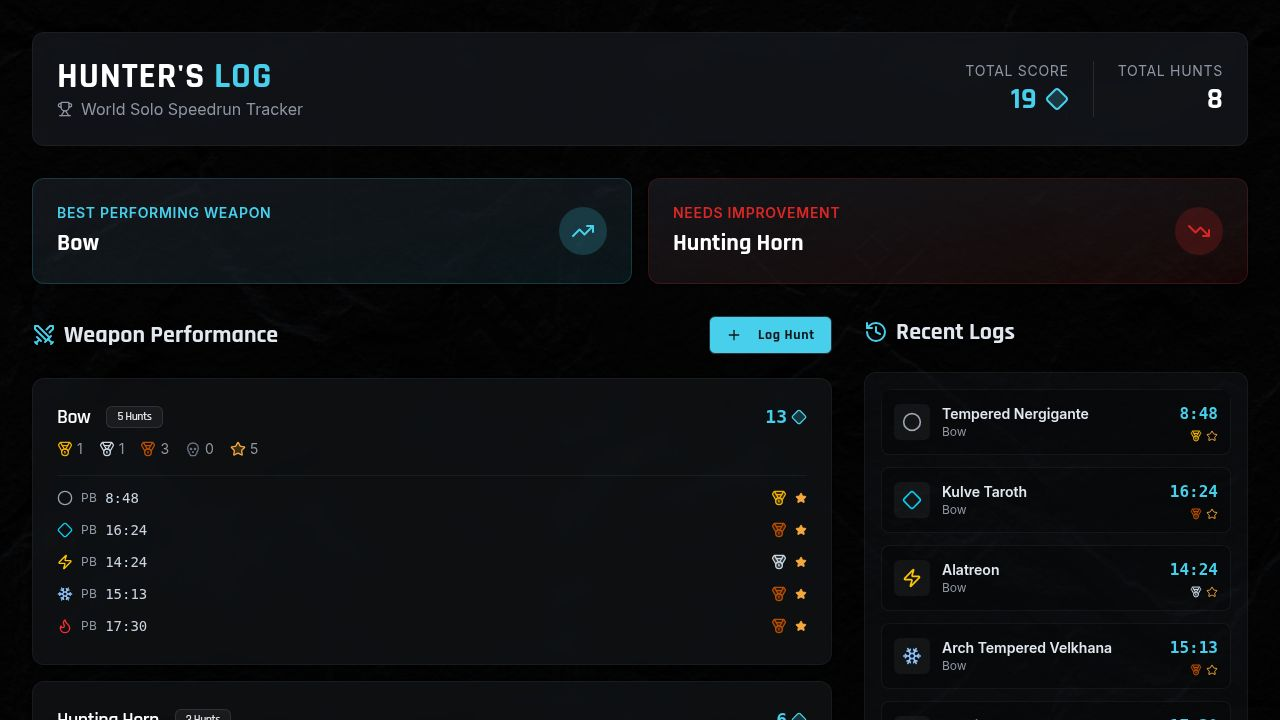
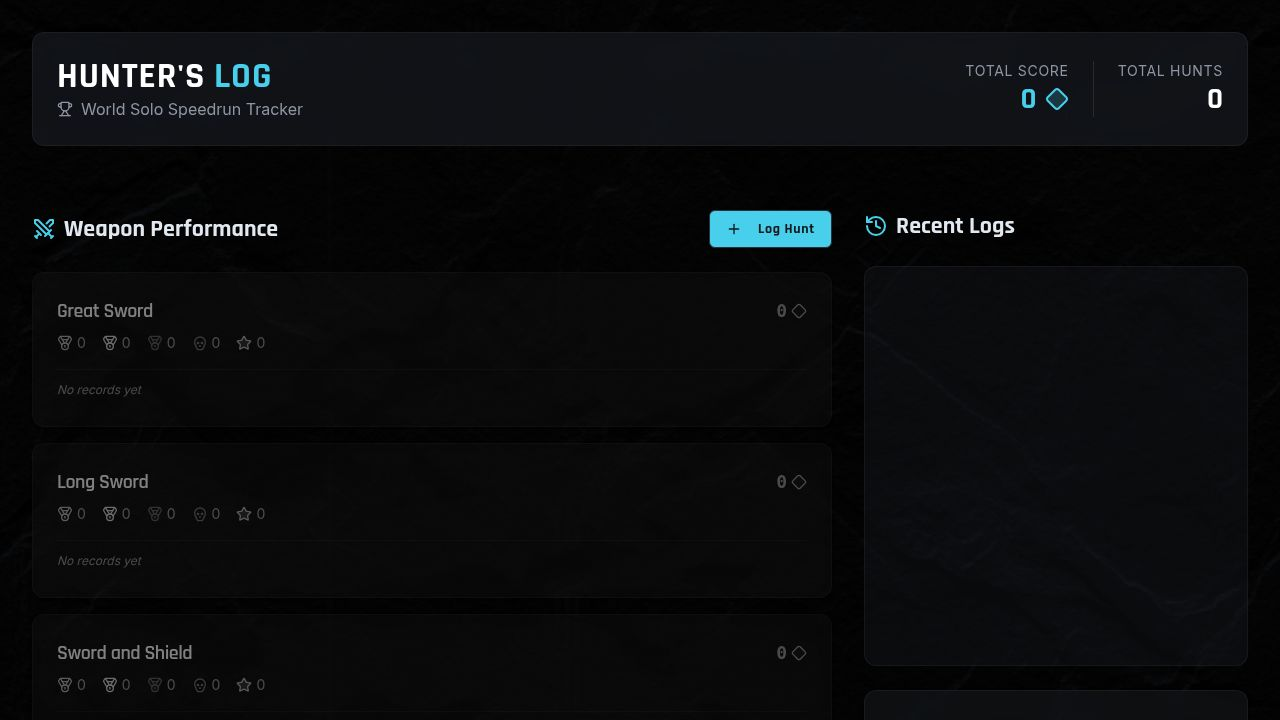
Improve dropdown scrolling for selecting monsters and weapons
Add max-height and overflow-y-auto to SelectContent components for Monster and Weapon selectors in the dashboard page.

Replit-Commit-Author: Agent
Replit-Commit-Session-Id: 3506b91a-8d23-454a-8618-01b12eeb58fd
Replit-Commit-Checkpoint-Type: full_checkpoint
Replit-Commit-Event-Id: d4db4721-8f25-4a4a-a093-c7e73fc3d992
Replit-Commit-Screenshot-Url: https://storage.googleapis.com/screenshot-production-us-central1/9945052e-8cee-4e2a-b413-c20988c903f2/3506b91a-8d23-454a-8618-01b12eeb58fd/7wTPZ9d
Replit-Helium-Checkpoint-Created: true

diff --git a/client/src/pages/dashboard.tsx b/client/src/pages/dashboard.tsx
@@ -262,7 +262,7 @@ export default function Dashboard() {
                       <SelectTrigger className="bg-background/50 border-white/10">
                         <SelectValue />
                       </SelectTrigger>
-                      <SelectContent className="bg-card border-white/10 text-slate-200">
+                      <SelectContent className="bg-card border-white/10 text-slate-200 max-h-[40vh] overflow-y-auto">
                         {MONSTERS.map(m => (
                           <SelectItem key={m.id} value={m.id}>
                              <div className="flex items-center gap-2">
@@ -279,7 +279,7 @@ export default function Dashboard() {
                       <SelectTrigger className="bg-background/50 border-white/10">
                         <SelectValue />
                       </SelectTrigger>
-                      <SelectContent className="bg-card border-white/10 text-slate-200">
+                      <SelectContent className="bg-card border-white/10 text-slate-200 max-h-[40vh] overflow-y-auto">
                         {WEAPONS.map(w => (
                           <SelectItem key={w.id} value={w.id}>{w.name}</SelectItem>
                         ))}